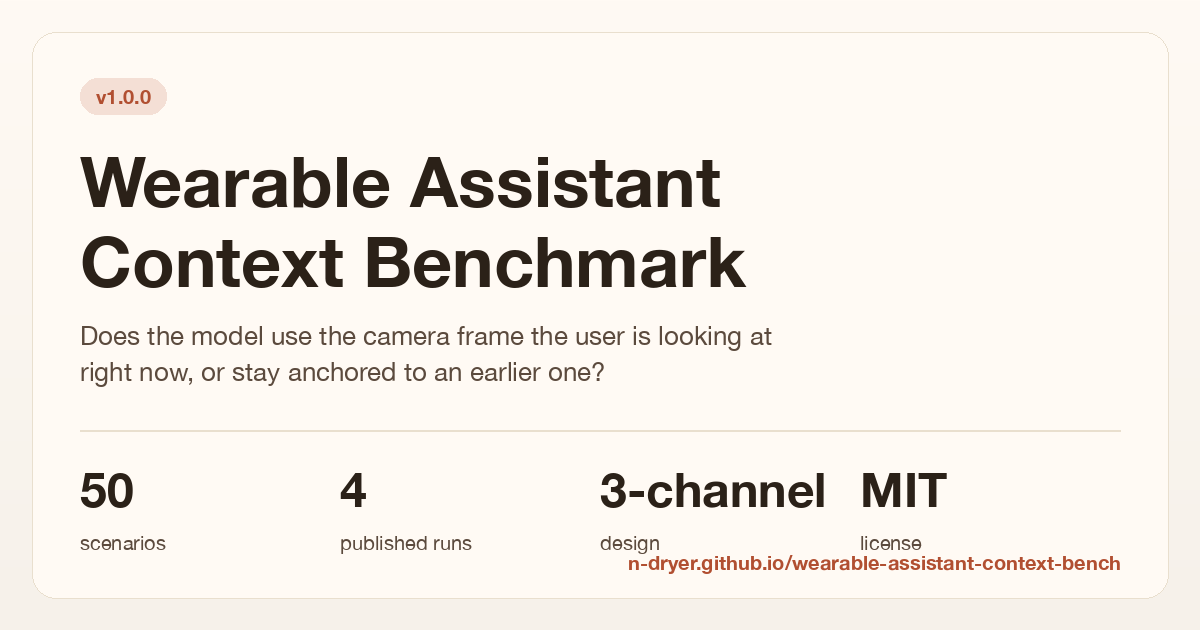
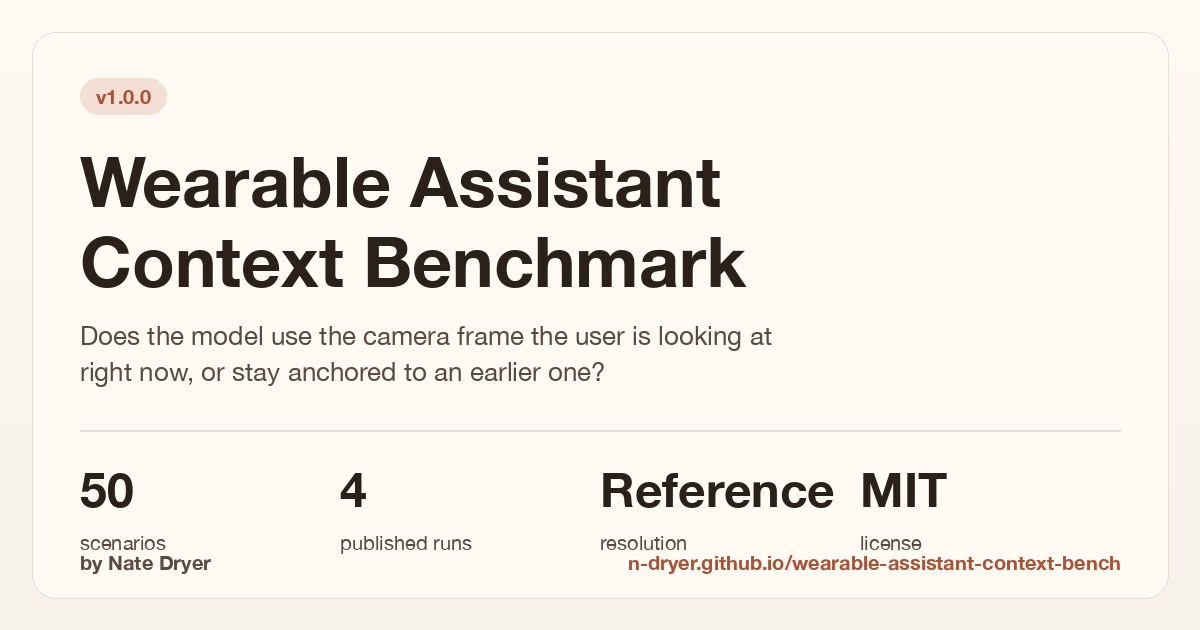
docs(og): replace project-specific badge with standard term, add author attribution
- Stat badge 'three-channel design' replaced with 'Reference resolution'
  (standard linguistics/dialog term, no hyphens, no project-specific
  jargon)
- 'by Nate Dryer' added to OG image bottom-left, balancing the URL on
  the right
- Index page footer line updated to lead with 'Built by Nate Dryer'
  for visible attribution

OG image and index.html regenerated. Tests still pass.

Changed region(s): [[0.4933, 0.754, 0.7092, 0.8143], [0.0617, 0.8746, 0.185, 0.9048], [0.4933, 0.8444, 0.5858, 0.8746]]

diff --git a/docs/index.html b/docs/index.html
@@ -394,7 +394,7 @@ ul.bullets li {
         </section>
 
         <div class="footer">
-            <div>Released under the MIT License. Code and scenarios at
+            <div>Built by <strong>Nate Dryer</strong>. Released under the MIT License. Code and scenarios at
             <a href="https://github.com/n-dryer/wearable-assistant-context-bench">github.com/n-dryer/wearable-assistant-context-bench</a>.
             For citation, see <a href="https://github.com/n-dryer/wearable-assistant-context-bench/blob/main/CITATION.cff">CITATION.cff</a>.</div>
             <div class="links">

diff --git a/docs/og_image.py b/docs/og_image.py
@@ -187,7 +187,7 @@ def render() -> None:
     stats = [
         ("50", "scenarios"),
         ("4", "published runs"),
-        ("3-channel", "design"),
+        ("Reference", "resolution"),
         ("MIT", "license"),
     ]
     col_w = (WIDTH - 160) // len(stats)
@@ -202,15 +202,22 @@ def render() -> None:
             label_font,
         )
 
-    # Footer URL
-    url_font = _font(20, "Bold")
+    # Footer attribution (left) and URL (right)
+    footer_font = _font(20, "Bold")
+    author_text = "by Nate Dryer"
+    draw.text(
+        (80, HEIGHT - 80),
+        author_text,
+        fill=INK_MUTED,
+        font=footer_font,
+    )
     url_text = "n-dryer.github.io/wearable-assistant-context-bench"
-    url_w = draw.textlength(url_text, font=url_font)
+    url_w = draw.textlength(url_text, font=footer_font)
     draw.text(
         (WIDTH - 80 - int(url_w), HEIGHT - 80),
         url_text,
         fill=ACCENT,
-        font=url_font,
+        font=footer_font,
     )
 
     img.save(OUT_PATH, "PNG", optimize=True)

diff --git a/docs/index.py b/docs/index.py
@@ -421,7 +421,7 @@ def render_html() -> str:
         </section>
 
         <div class="footer">
-            <div>Released under the MIT License. Code and scenarios at
+            <div>Built by <strong>Nate Dryer</strong>. Released under the MIT License. Code and scenarios at
             <a href="https://github.com/n-dryer/wearable-assistant-context-bench">github.com/n-dryer/wearable-assistant-context-bench</a>.
             For citation, see <a href="https://github.com/n-dryer/wearable-assistant-context-bench/blob/main/CITATION.cff">CITATION.cff</a>.</div>
             <div class="links">
